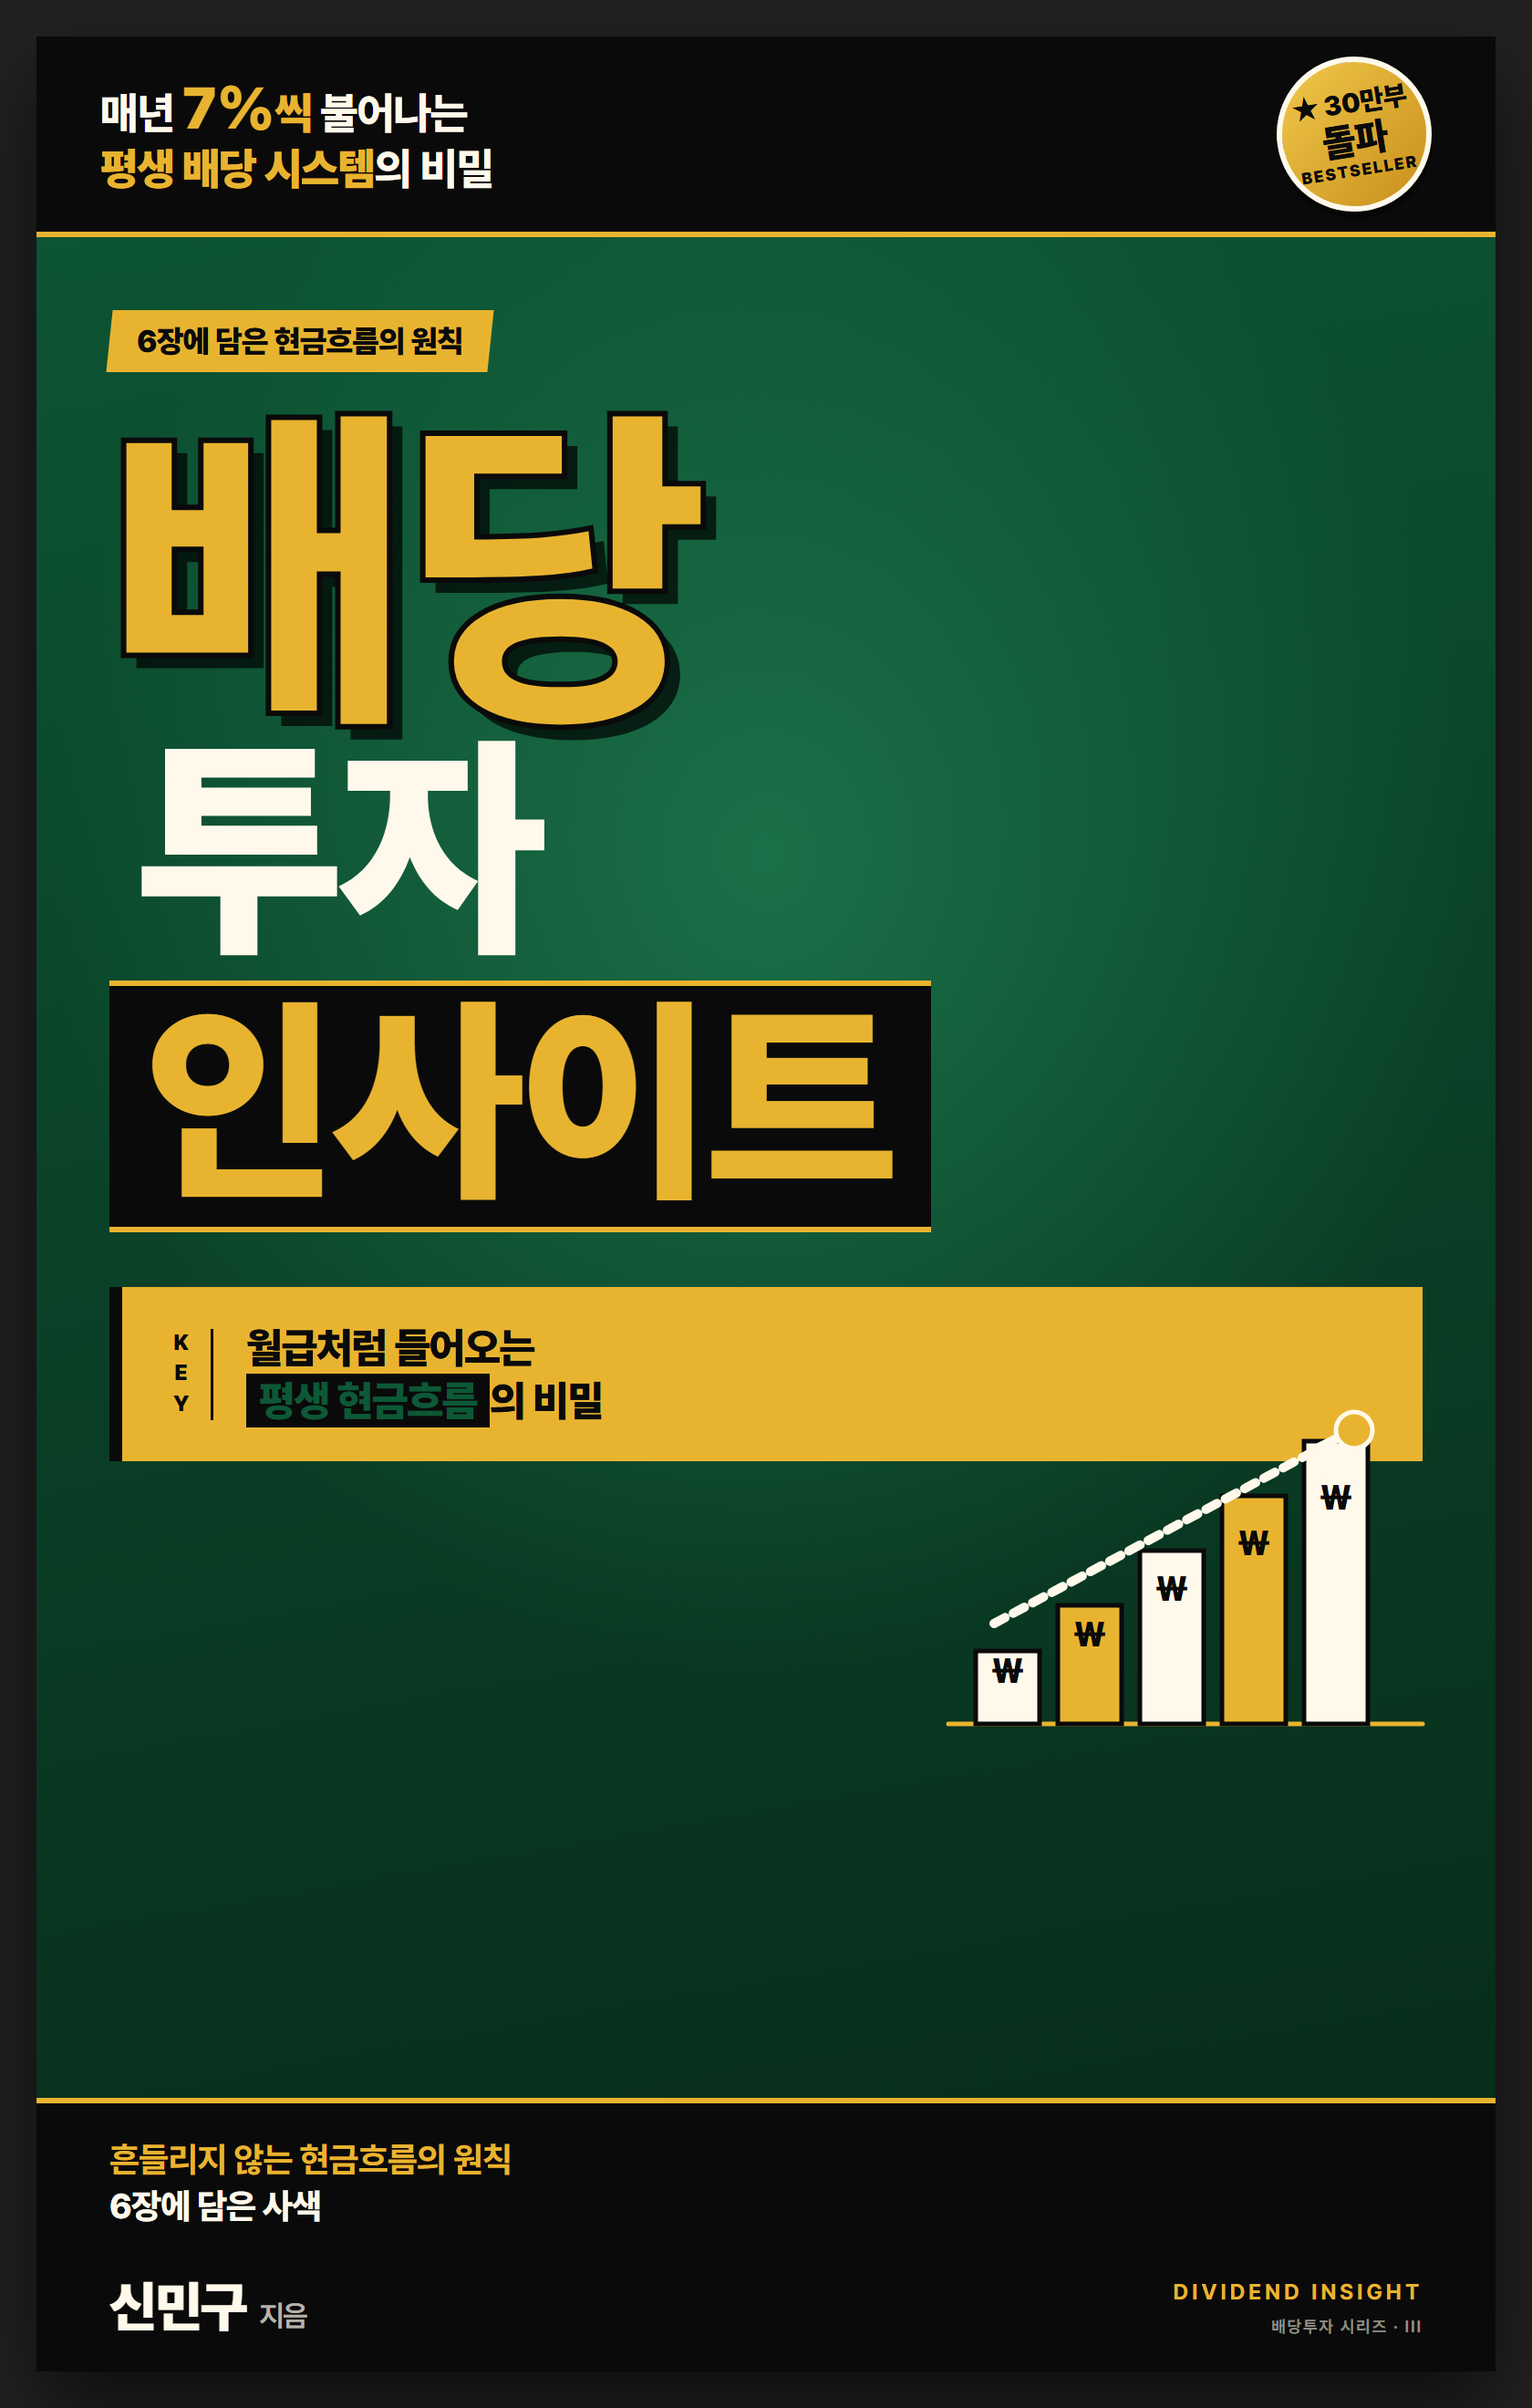
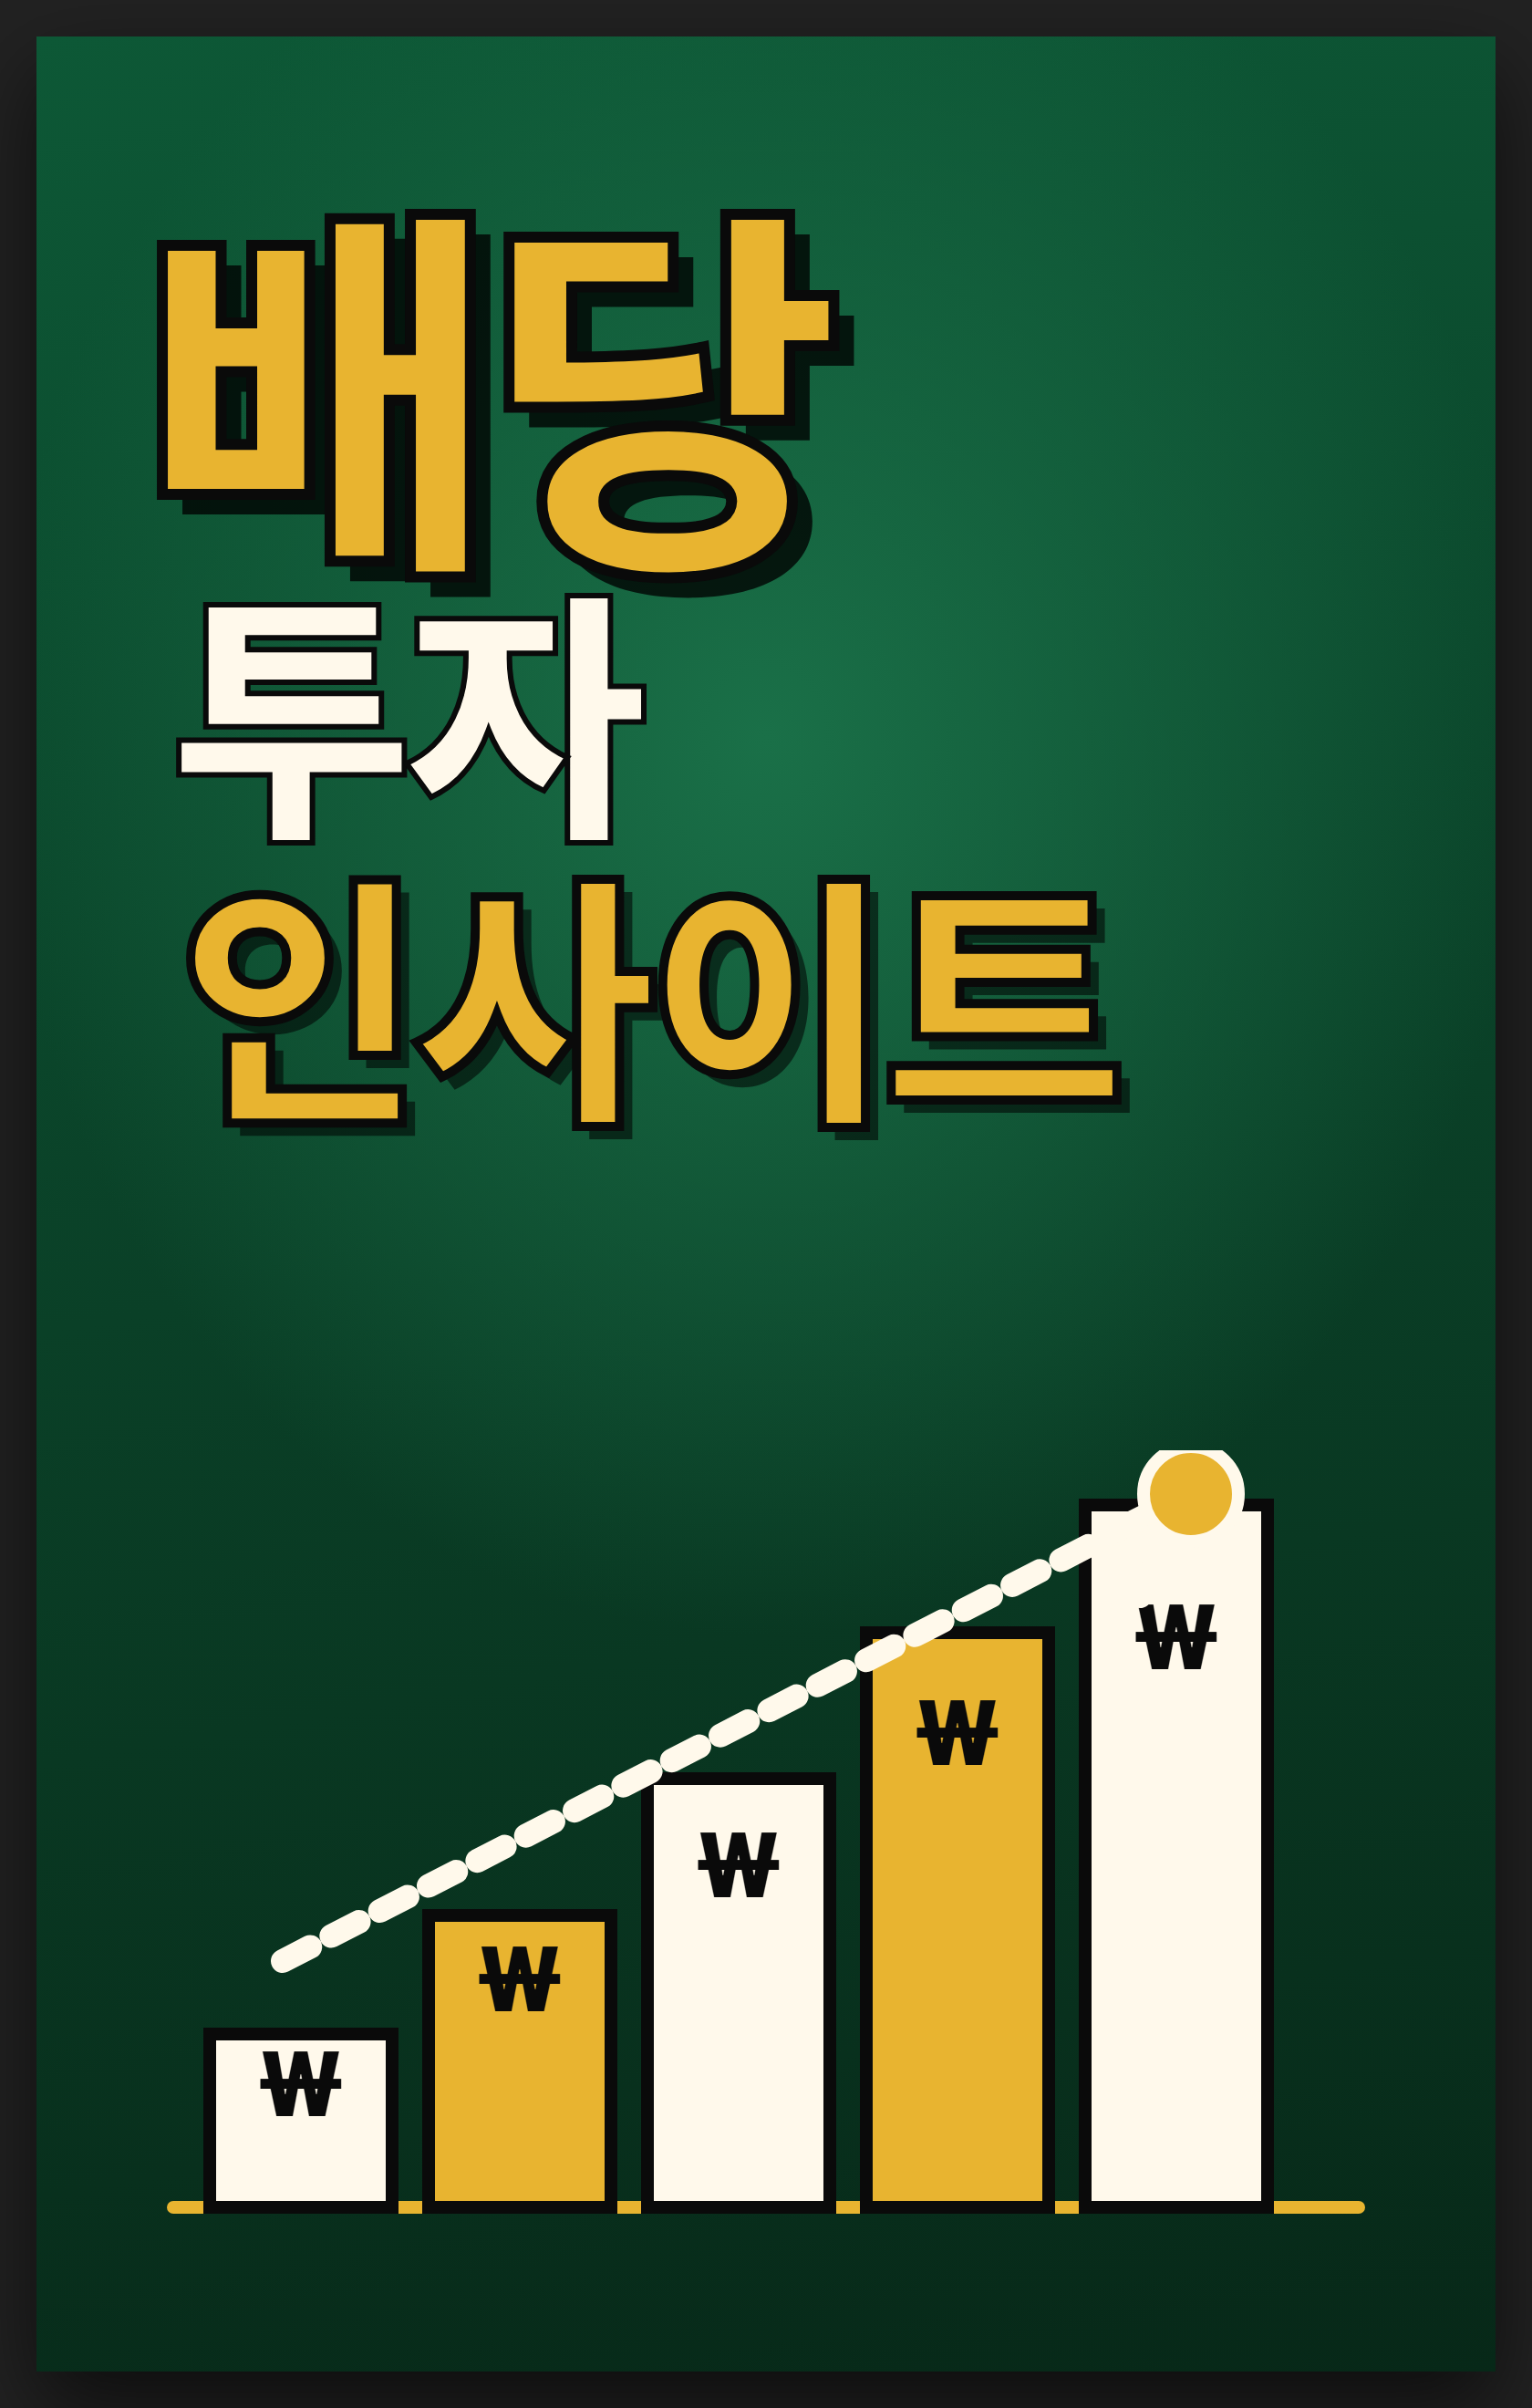
refactor: VOL.III 표지를 미니멀(타이틀+큰 차트)로 단순화, VOL.I·II는 기존 CSS 카드 복구
- VOL.III: 상하단 검정 띠지 제거, '배당 / 투자 / 인사이트' 타이틀만 노출,
  상승 막대 차트를 1380×900으로 확대해 하단 절반을 채움
- VOL.I·II: 베스트셀러 PNG 표지 → 기존 핑크/그린 CSS 타이포 카드로 환원
  (사용자 요청: 인사이트 책만 신규 표지 적용)

diff --git a/public/표지_VOL3_인사이트.html b/public/표지_VOL3_인사이트.html
@@ -1,0 +1,80 @@
+<!doctype html>
+<html lang="ko">
+<head>
+<meta charset="utf-8"/>
+<title>배당투자 인사이트 — VOL.III</title>
+<link rel="stylesheet" href="https://cdn.jsdelivr.net/gh/orioncactus/pretendard@v1.3.9/dist/web/static/pretendard.min.css"/>
+<style>
+  *{box-sizing:border-box;margin:0;padding:0}
+  body{background:#222;font-family:'Pretendard',-apple-system,sans-serif;display:flex;justify-content:center;align-items:flex-start;padding:40px 0;min-height:100vh}
+  .cover{
+    width:1600px;height:2560px;position:relative;overflow:hidden;
+    background:
+      radial-gradient(75% 55% at 50% 30%, #1a7048 0%, transparent 70%),
+      linear-gradient(170deg,#0d5836 0%,#072818 100%);
+    color:#fff9eb;
+    box-shadow:0 40px 90px rgba(0,0,0,.6);
+  }
+  .title{
+    position:absolute;top:200px;left:120px;
+    display:flex;flex-direction:column;align-items:flex-start;
+    line-height:.88;letter-spacing:-.07em;font-weight:900;
+  }
+  .t-bg{
+    font-size:440px;color:#e8b430;
+    -webkit-text-stroke:12px #0a0a0a;
+    text-shadow:22px 22px 0 rgba(0,0,0,.78);
+    margin-bottom:30px;
+  }
+  .t-mid{
+    font-size:300px;color:#fff9eb;
+    -webkit-text-stroke:6px #0a0a0a;
+    margin-left:30px;margin-bottom:36px;
+  }
+  .t-block{
+    font-size:300px;color:#e8b430;
+    -webkit-text-stroke:10px #0a0a0a;
+    text-shadow:14px 14px 0 rgba(0,0,0,.55);
+    margin-left:40px;
+    line-height:.95;
+  }
+  .illust{
+    position:absolute;left:50%;transform:translateX(-50%);
+    bottom:110px;width:1380px;
+  }
+</style>
+</head>
+<body>
+<div class="cover">
+  <h1 class="title">
+    <span class="t-bg">배당</span>
+    <span class="t-mid">투자</span>
+    <span class="t-block">인사이트</span>
+  </h1>
+
+  <!-- 큰 상승 막대 차트 + 화살표 -->
+  <svg class="illust" viewBox="0 0 1380 900">
+    <!-- baseline -->
+    <line x1="40" y1="830" x2="1340" y2="830" stroke="#e8b430" stroke-width="14" stroke-linecap="round"/>
+    <!-- 5 ascending bars -->
+    <rect x="80"   y="640" width="200" height="190" fill="#fff9eb" stroke="#0a0a0a" stroke-width="14"/>
+    <rect x="320"  y="510" width="200" height="320" fill="#e8b430" stroke="#0a0a0a" stroke-width="14"/>
+    <rect x="560"  y="360" width="200" height="470" fill="#fff9eb" stroke="#0a0a0a" stroke-width="14"/>
+    <rect x="800"  y="200" width="200" height="630" fill="#e8b430" stroke="#0a0a0a" stroke-width="14"/>
+    <rect x="1040" y="60"  width="200" height="770" fill="#fff9eb" stroke="#0a0a0a" stroke-width="14"/>
+    <!-- ₩ on each bar -->
+    <text x="180"  y="730" text-anchor="middle" font-size="100" font-weight="900" fill="#0a0a0a">₩</text>
+    <text x="420"  y="615" text-anchor="middle" font-size="100" font-weight="900" fill="#0a0a0a">₩</text>
+    <text x="660"  y="490" text-anchor="middle" font-size="100" font-weight="900" fill="#0a0a0a">₩</text>
+    <text x="900"  y="345" text-anchor="middle" font-size="100" font-weight="900" fill="#0a0a0a">₩</text>
+    <text x="1140" y="240" text-anchor="middle" font-size="100" font-weight="900" fill="#0a0a0a">₩</text>
+    <!-- rising arrow trail (dashed) -->
+    <path d="M 160 560 L 1150 50" stroke="#fff9eb" stroke-width="26" fill="none" stroke-linecap="round" stroke-dasharray="34 26"/>
+    <!-- arrow head -->
+    <path d="M 1150 50 L 1070 90 M 1150 50 L 1100 160" stroke="#fff9eb" stroke-width="26" fill="none" stroke-linecap="round"/>
+    <!-- arrow tip dot -->
+    <circle cx="1156" cy="48" r="52" fill="#e8b430" stroke="#fff9eb" stroke-width="14"/>
+  </svg>
+</div>
+</body>
+</html>

diff --git a/public/사용안내서.html b/public/사용안내서.html
@@ -25,8 +25,22 @@
   .shelf-grid{display:flex;flex-wrap:wrap;gap:32px}
   .book-card{width:210px;background:transparent;border:none;cursor:pointer;transition:transform .25s ease,filter .25s ease;display:flex;flex-direction:column;user-select:none;text-decoration:none}
   .book-card:hover{transform:translateY(-6px) rotate(-.4deg);filter:drop-shadow(0 16px 26px rgba(0,0,0,.55))}
-  .book-cover{position:relative;aspect-ratio:1/1.6;border-radius:2px 7px 7px 2px;overflow:hidden;box-shadow:0 10px 22px rgba(0,0,0,.45);background:#0a0a0a}
+  .book-cover{position:relative;aspect-ratio:1/1.6;border-radius:2px 7px 7px 2px;overflow:hidden;box-shadow:0 10px 22px rgba(0,0,0,.45)}
   .book-cover img{display:block;width:100%;height:100%;object-fit:cover}
+  /* CSS typography cover used for VOL.I, VOL.II */
+  .book-cover.css-cover{display:flex;flex-direction:column;padding:22px 18px 20px 22px;color:#fff;
+    box-shadow:0 10px 22px rgba(0,0,0,.45), inset 1px 0 0 rgba(255,255,255,.08), inset 7px 0 14px -7px rgba(0,0,0,.5), inset -1px 0 0 rgba(255,255,255,.04);
+    background:
+      radial-gradient(130% 90% at 25% 0%, rgba(255,255,255,.10), transparent 60%),
+      linear-gradient(170deg, var(--cv-a) 0%, var(--cv-b) 100%);}
+  .cv-tag{font-size:10.5px;font-weight:700;letter-spacing:-.015em;padding:4px 10px;border-radius:100px;background:rgba(255,255,255,.22);align-self:flex-start;line-height:1.4}
+  .cv-title{font-weight:900;letter-spacing:-.045em;line-height:1.13;color:#fff;font-size:26px;margin-top:24px}
+  .cv-sub{font-size:11px;font-weight:600;letter-spacing:-.02em;line-height:1.55;opacity:.88;margin-top:14px;padding-top:11px;border-top:1px solid rgba(255,255,255,.28)}
+  .cv-foot{font-size:10px;font-weight:800;letter-spacing:-.005em;opacity:.7;margin-top:auto;padding-top:14px}
+  .book-card.bk-1 .book-cover{--cv-a:#ee6b83;--cv-b:#c4395a}
+  .book-card.bk-1 .cv-title{font-size:21px}
+  .book-card.bk-2 .book-cover{--cv-a:#56b836;--cv-b:#2c8814}
+  .book-card.bk-2 .cv-title{font-size:28px}
   /* book spine shadow overlay */
   .book-cover::before{content:"";position:absolute;left:0;top:0;bottom:0;width:7px;background:linear-gradient(90deg,rgba(0,0,0,.4),rgba(0,0,0,.05));border-right:1px solid rgba(255,255,255,.08);z-index:2;pointer-events:none}
   /* subtle glare on right edge */
@@ -119,15 +133,25 @@
     <p>읽고 싶은 책을 선택하세요</p>
   </div>
   <div class="shelf-grid">
-    <div class="book-card" onclick="openBook()">
-      <div class="book-cover"><img src="covers/vol1.png" alt="배당주 종합 점수 대시보드 사용 안내서"/></div>
+    <div class="book-card bk-1" onclick="openBook()">
+      <div class="book-cover css-cover">
+        <div class="cv-tag">처음 사용자 안내</div>
+        <div class="cv-title">배당주<br>종합점수<br>대시보드<br>사용 안내서</div>
+        <div class="cv-sub">기능 하나하나, 차근차근<br>10장에 담은 입문 가이드</div>
+        <div class="cv-foot">신민구 지음</div>
+      </div>
       <div class="book-info">
         <h3>배당주 종합 점수<br>대시보드 사용 안내서</h3>
         <p>10장 · 처음 사용자를 위한 안내</p>
       </div>
     </div>
-    <a class="book-card" href="배당투자AI_사용가이드.html">
-      <div class="book-cover"><img src="covers/vol2.png" alt="배당투자 AI 가이드"/></div>
+    <a class="book-card bk-2" href="배당투자AI_사용가이드.html">
+      <div class="book-cover css-cover">
+        <div class="cv-tag">AI 완전 정복</div>
+        <div class="cv-title">배당투자<br>AI 가이드</div>
+        <div class="cv-sub">8장에 담은 전체 기능<br>AI와 함께하는 배당투자</div>
+        <div class="cv-foot">신민구 지음</div>
+      </div>
       <div class="book-info">
         <h3>배당투자AI<br>사용 가이드</h3>
         <p>8장 · 전체 기능 완전 정복</p>